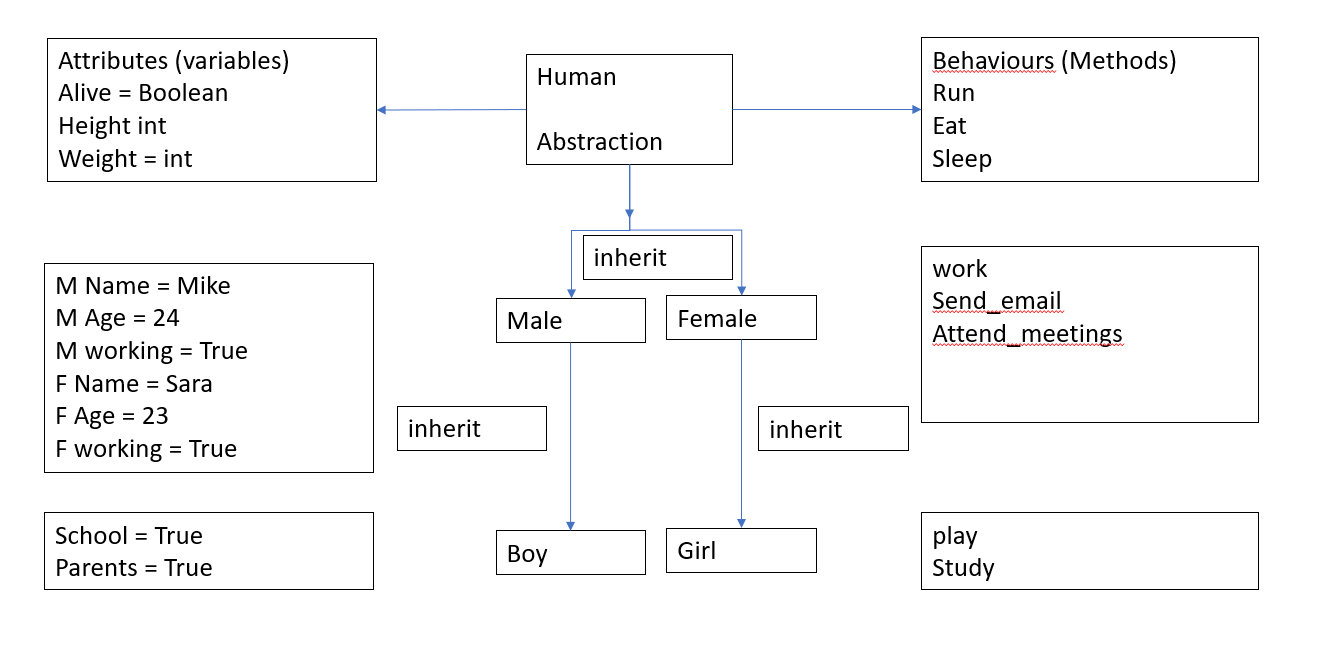
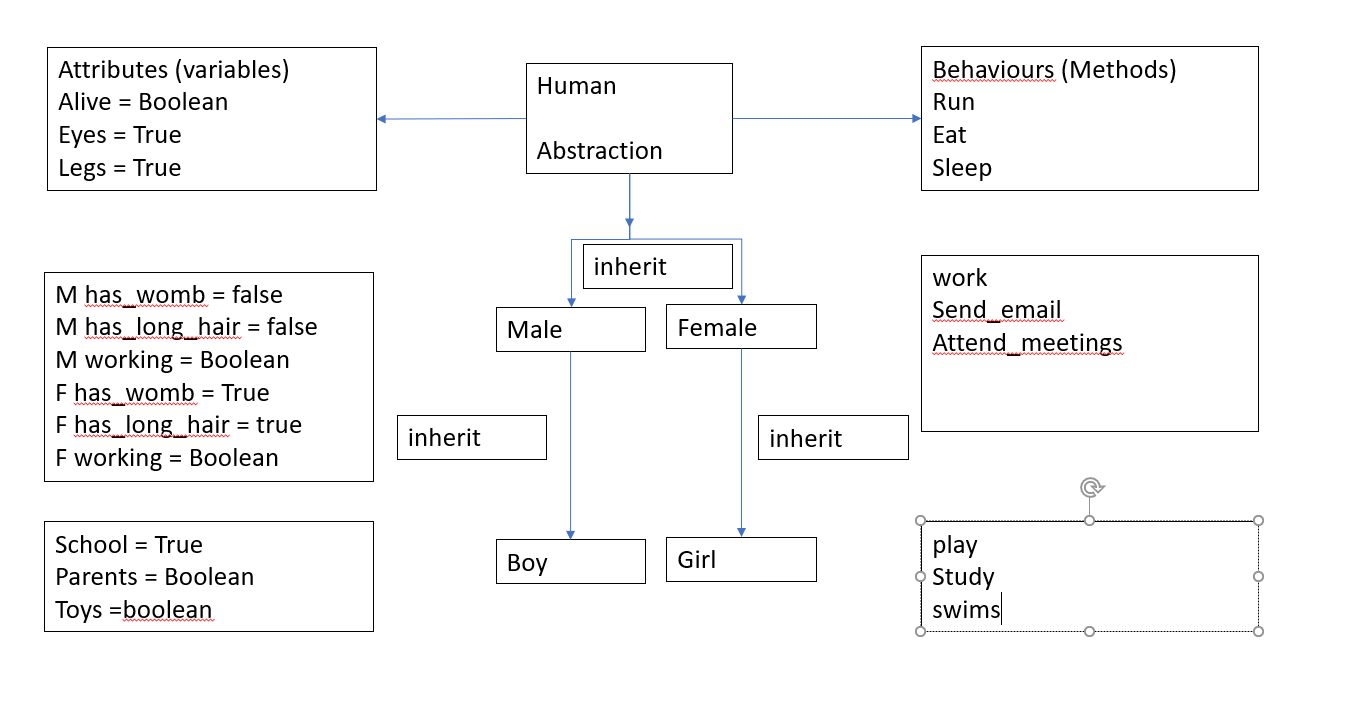
steps added to doc

diff --git a/boy.py b/boy.py
@@ -1,0 +1,28 @@
+# inherit everything from Male class into boy
+
+# how to import from another file in python
+from male import Male
+
+class Boy(Male): # parent class (Male) is the base super class
+    def __init__(self): # __init__ to declare class attributes
+
+        # this lets the program know to inherit everything from parent class
+        super().__init__() # super is used to inherit everything from base class
+        self.school = True
+        self.parents = False
+        self.toys = False
+
+    def play(self):
+        return "plays on the weekends"
+
+    def study(self):
+        return "studies every weekday"
+
+    def swims(self):
+        return "swims every friday"
+
+
+boy_object = Boy()
+
+print(boy_object.study())
+print(boy_object.send_email())

diff --git a/male.py b/male.py
@@ -24,5 +24,5 @@ class Male(Human): # parent class (Human) is the base super class
 
 male_object = Male()
 
-print(male_object.attend_meetings())
-print(male_object.sleep())
+#print(male_object.attend_meetings())
+#print(male_object.sleep())

diff --git a/female.py b/female.py
@@ -1,4 +1,4 @@
-# inherit everything from Human class into male
+# inherit everything from Human class into female
 
 # how to import from another file in python
 from human import Human

diff --git a/README.md b/README.md
@@ -2,5 +2,131 @@
 
 ![](C:\Users\Ayan\PycharmProjects\human_oop\humandiagram.PNG)
 
+## Step 1
+````python
+# creating human class
+
+class Human:
+    # __init__ to declare class attributes
+    def __init__(self): #self refers to current class so Human
+        self.alive = True
+        self.eyes = True
+        self.legs = True
+
+    def eat(self):
+        return "need to eat"
+
+    def sleep(self):
+        return "must rest"
+
+    def run(self):
+        return "have to stay fit"
+
+# create an object of the class before using it
+
+person = Human()
+
+print(person.eat())
+
+````
+
+## Step 2 
+
+````python
+from human import Human
+
+class Male(Human): # parent class (Human) is the base super class
+    def __init__(self): # __init__ to declare class attributes
+
+        # this lets the program know to inherit everything from parent class
+        super().__init__() # super is used to inherit everything from base class
+        self.working = True
+        self.has_womb = False
+        self.has_long_hair = False
+
+    def work(self):
+        return "works full time"
+
+    def send_email(self):
+        return "sends emails automically"
+
+    def attend_meetings(self):
+        return "only on mondays and tuesdays"
 
 
+male_object = Male()
+
+print(male_object.attend_meetings())
+print(male_object.sleep())
+
+````
+
+## Step 3
+
+````python
+# inherit everything from Human class into female
+
+# how to import from another file in python
+from human import Human
+
+class Female(Human): # parent class (Human) is the base super class
+    def __init__(self): # __init__ to declare class attributes
+
+        # this lets the program know to inherit everything from parent class
+        super().__init__() # super is used to inherit everything from base class
+        self.working = True
+        self.has_womb = True
+        self.has_long_hair = True
+
+    def work(self):
+        return "works part time"
+
+    def send_email(self):
+        return "sends emails manually"
+
+    def attend_meetings(self):
+        return "only on wednesdays and Fridays"
+
+
+female_object = Female()
+
+print(female_object.work())
+print(female_object.run())
+
+````
+
+## Step 4
+
+````python
+# inherit everything from Male class into boy
+
+# how to import from another file in python
+from male import Male
+
+class Boy(Male): # parent class (Male) is the base super class
+    def __init__(self): # __init__ to declare class attributes
+
+        # this lets the program know to inherit everything from parent class
+        super().__init__() # super is used to inherit everything from base class
+        self.school = True
+        self.parents = False
+        self.toys = False
+
+    def play(self):
+        return "plays on the weekends"
+
+    def study(self):
+        return "studies every weekday"
+
+    def swims(self):
+        return "swims every friday"
+
+
+boy_object = Boy()
+
+print(boy_object.study())
+print(boy_object.send_email())
+
+````
+
+## Step 5
